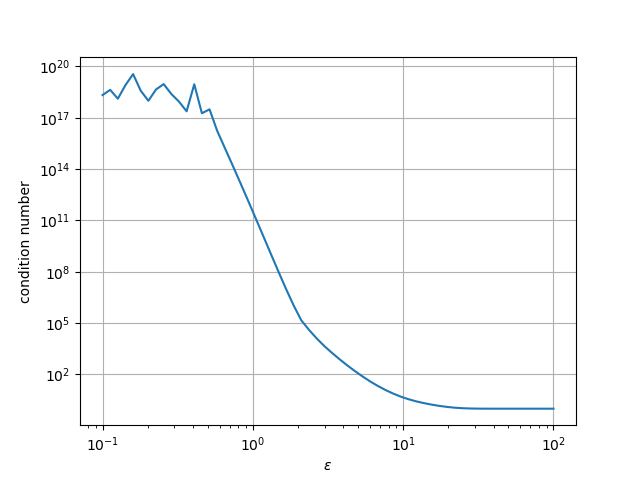
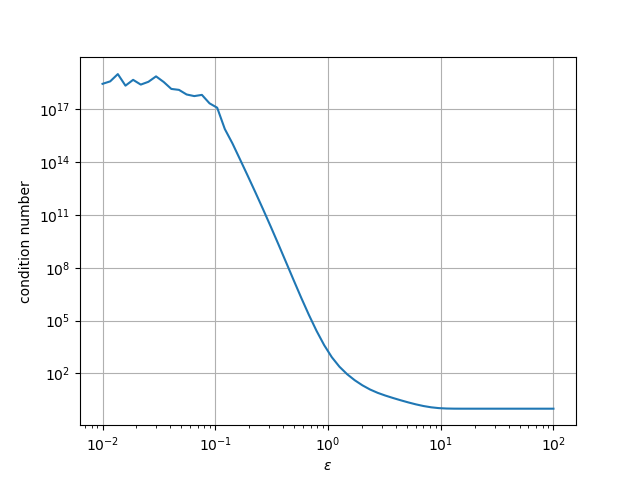
Visualization

diff --git a/README.md b/README.md
@@ -1,2 +1,97 @@
 # RBF Functions for Surrogate Optimization
  An Implementation of Radial Basis Functions for means of approximating a function, with applications within surrogate based optimization
+
+
+<p align='center'>
+<img src="https://github.com/TomRSavage/RBF-Functions-For-Surrogate-Optimization/blob/master/RBFFunction1D.gif" width="400"> <img src="https://github.com/TomRSavage/RBF-Functions-For-Surrogate-Optimization/blob/master/RBFFunction2D.gif" width="400"> 
+<p/>
+
+## Radial Basis Function Explanation
+
+Radial Basis Functions (RBFs) are used to interpolate data, approximating an original or unknown function. Their applications within surrogate modelling are clear, data is sampled within the function space of an expensive function and an RBF is created with a much 'cheaper' evaluation cost. When functions are highly non-linear it is beneficial that they be optimized using stochastic methods, often requiring lots of function evaluations. This compuationally cheaper interpolation of the original function allows for much faster and more efficient optimization. 
+
+Our end goal is to produce a function that exactly predicts the correct result at a datapoint, and interpolates areas between datapoints with good accuracy. This function will be in the form:
+<p align="center"> 
+ <a href="https://www.codecogs.com/eqnedit.php?latex=f(\textbf&space;x)=&space;\sum^p_{i=1}w_i\phi(||\textbf&space;x-x^{data}_i||)" target="_blank"><img src="https://latex.codecogs.com/gif.latex?f(\textbf&space;x)=&space;\sum^p_{i=1}w_i\phi(||\textbf&space;x-x^{data}_i||)" title="f(\textbf x)= \sum^p_{i=1}w_i\phi(||\textbf x-x^{data}_i||)" /></a> 
+</p>
+Bit complicated at first glance but all will be explained. 
+
+We start with a set of sample data that we wish to interpolate around along with each points respective function evaluation as follows:
+<p align="center"> 
+<a href="https://www.codecogs.com/eqnedit.php?latex=x_{data}=\begin{bmatrix}&space;x^1_1&&space;x^1_2&space;&&space;x_3^1&space;&...&space;&x^1_n\\&space;x^2_1&&space;x^2_2&space;&&space;x_3^2&space;&...&&space;x^2_n\\&space;x^3_1&x_2^3&space;&x^3_3&space;&&space;...&x^3_n\\&space;\vdots&&space;\vdots&space;&&space;\vdots&space;&&space;\ddots\\&space;x^p_1&x^p_2&x^p_3&space;\end{bmatrix}" target="_blank"><img src="https://latex.codecogs.com/gif.latex?x_{data}=\begin{bmatrix}&space;x^1_1&&space;x^1_2&space;&&space;x_3^1&space;&...&space;&x^1_n\\&space;x^2_1&&space;x^2_2&space;&&space;x_3^2&space;&...&&space;x^2_n\\&space;x^3_1&x_2^3&space;&x^3_3&space;&&space;...&x^3_n\\&space;\vdots&&space;\vdots&space;&&space;\vdots&space;&&space;\ddots\\&space;x^p_1&x^p_2&x^p_3&space;\end{bmatrix}" title="x_{data}=\begin{bmatrix} x^1_1& x^1_2 & x_3^1 &... &x^1_n\\ x^2_1& x^2_2 & x_3^2 &...& x^2_n\\ x^3_1&x_2^3 &x^3_3 & ...&x^3_n\\ \vdots& \vdots & \vdots & \ddots\\ x^p_1&x^p_2&x^p_3 \end{bmatrix}" /></a> &nbsp &nbsp&nbsp&nbsp&nbsp
+<a href="https://www.codecogs.com/eqnedit.php?latex=y_{data}=&space;\begin{bmatrix}&space;y^1\\&space;y^2\\&space;y^3\\&space;\vdots\\&space;y^p\\&space;\end{bmatrix}" target="_blank"><img src="https://latex.codecogs.com/gif.latex?y_{data}=&space;\begin{bmatrix}&space;y^1\\&space;y^2\\&space;y^3\\&space;\vdots\\&space;y^p\\&space;\end{bmatrix}" title="y_{data}= \begin{bmatrix} y^1\\ y^2\\ y^3\\ \vdots\\ y^p\\ \end{bmatrix}" /></a>
+</p>
+
+Where p is the number of data points and n is the number of input dimensions.
+
+With this data we then create the interpolation matrix, defined as the following:
+<p align="center">
+<a href="https://www.codecogs.com/eqnedit.php?latex=\Psi=\begin{bmatrix}&space;\phi(||x^1-x^1||)&\phi(||x^1-x^2||)&space;&&space;\phi(||x^1-x^3||)&space;&...&\phi(||x^1-x^p||)&space;\\&space;\phi(||x^2-x^1||)&\phi(||x^2-x^2||)&space;&&space;\phi(||x^2-x^3||)&space;&...&\phi(||x^2-x^p||)\\&space;\phi(||x^3-x^1||)&\phi(||x^3-x^2||)&space;&&space;\phi(||x^3-x^3||)&space;&...&\phi(||x^3-x^p||)&space;\\&space;\vdots&\vdots&space;&\vdots&space;&\ddots&\vdots\\&space;\phi(||x^p-x^1||)&\phi(||x^p-x^2||)&space;&&space;\phi(||x^p-x^3||)&space;&...&\phi(||x^p-x^p||)&space;\end{bmatrix}" target="_blank"><img src="https://latex.codecogs.com/gif.latex?\Psi=\begin{bmatrix}&space;\phi(||x^1-x^1||)&\phi(||x^1-x^2||)&space;&&space;\phi(||x^1-x^3||)&space;&...&\phi(||x^1-x^p||)&space;\\&space;\phi(||x^2-x^1||)&\phi(||x^2-x^2||)&space;&&space;\phi(||x^2-x^3||)&space;&...&\phi(||x^2-x^p||)\\&space;\phi(||x^3-x^1||)&\phi(||x^3-x^2||)&space;&&space;\phi(||x^3-x^3||)&space;&...&\phi(||x^3-x^p||)&space;\\&space;\vdots&\vdots&space;&\vdots&space;&\ddots&\vdots\\&space;\phi(||x^p-x^1||)&\phi(||x^p-x^2||)&space;&&space;\phi(||x^p-x^3||)&space;&...&\phi(||x^p-x^p||)&space;\end{bmatrix}" title="\Psi=\begin{bmatrix} \phi(||x^1-x^1||)&\phi(||x^1-x^2||) & \phi(||x^1-x^3||) &...&\phi(||x^1-x^p||) \\ \phi(||x^2-x^1||)&\phi(||x^2-x^2||) & \phi(||x^2-x^3||) &...&\phi(||x^2-x^p||)\\ \phi(||x^3-x^1||)&\phi(||x^3-x^2||) & \phi(||x^3-x^3||) &...&\phi(||x^3-x^p||) \\ \vdots&\vdots &\vdots &\ddots&\vdots\\ \phi(||x^p-x^1||)&\phi(||x^p-x^2||) & \phi(||x^p-x^3||) &...&\phi(||x^p-x^p||) \end{bmatrix}" /></a>
+</p>
+
+Where the basis function <a href="https://www.codecogs.com/eqnedit.php?latex=\phi(||x_i-x_j||)" target="_blank"><img src="https://latex.codecogs.com/gif.latex?\phi(||x_i-x_j||)" title="\phi(||x_i-x_j||)" /></a> takes the input coordinates of two sample points, computes the euclidian norm of the two points (distance between them), then takes this distance (now denoted as r) and calculates a gaussian value associated with this distance.
+
+<p align="center">
+<a href="https://www.codecogs.com/eqnedit.php?latex=\phi(r)=e^{-\epsilon&space;r^2}" target="_blank"><img src="https://latex.codecogs.com/gif.latex?\phi(r)=e^{-\epsilon&space;r^2}" title="\phi(r)=e^{-\epsilon r^2}" /></a>
+</p>
+The standard gaussian function is as follows: 
+<p align="center">
+<a href="https://www.codecogs.com/eqnedit.php?latex=\phi(r)=\frac{1}{\sqrt{2\pi&space;\sigma}}e^{\frac{-(r-\mu)^2}{2\sigma&space;^2}}" target="_blank"><img src="https://latex.codecogs.com/gif.latex?\phi(r)=\frac{1}{\sqrt{2\pi&space;\sigma}}e^{\frac{-(r-\mu)^2}{2\sigma&space;^2}}" title="\phi(r)=\frac{1}{\sqrt{2\pi \sigma}}e^{\frac{-(r-\mu)^2}{2\sigma ^2}}" /></a>
+</p>
+Indicating that the parameter <a href="https://www.codecogs.com/eqnedit.php?latex=\epsilon" target="_blank"><img src="https://latex.codecogs.com/gif.latex?\epsilon" title="\epsilon" /></a> is proportional to the inverse of the standard deviation squared, thus we can think of <a href="https://www.codecogs.com/eqnedit.php?latex=\epsilon" target="_blank"><img src="https://latex.codecogs.com/gif.latex?\epsilon" title="\epsilon" /></a> as being a sort of length scale. The higher the value, the lower the standard deviation of our gaussian function, and the smaller our length scale is. 
+Here is a representation of how changing <a href="https://www.codecogs.com/eqnedit.php?latex=\epsilon" target="_blank"><img src="https://latex.codecogs.com/gif.latex?\epsilon" title="\epsilon" /></a> effects our gaussian kernel. 
+<p align="center">
+<img src="https://github.com/TomRSavage/RBF-Functions-For-Surrogate-Optimization/blob/master/GaussianGif.gif" width="400">
+</p>
+
+It should be noted that the interpolation matrix above is symmetrical, as <a href="https://www.codecogs.com/eqnedit.php?latex=\phi(||x_i-x_j||)=\phi(||x_j-x_i||)" target="_blank"><img src="https://latex.codecogs.com/gif.latex?\phi(||x_i-x_j||)=\phi(||x_j-x_i||)" title="\phi(||x_i-x_j||)=\phi(||x_j-x_i||)" /></a>. Therefore only the upper triangular section needs to be calculated, and the tranpose can be added to form the complete matrix.
+
+We now have a matrix containing data relating to how 'correlated' each datapoint is to another datapoint within function space. This is where <a href="https://www.codecogs.com/eqnedit.php?latex=y_{data}" target="_blank"><img src="https://latex.codecogs.com/gif.latex?y_{data}" title="y_{data}" /></a> comes into play. 
+By solving the equation <a href="https://www.codecogs.com/eqnedit.php?latex=\textbf&space;w\Psi=y_{data}" target="_blank"><img src="https://latex.codecogs.com/gif.latex?\textbf&space;w\Psi=y_{data}" title="\textbf w\Psi=y_{data}" /></a> for <a href="https://www.codecogs.com/eqnedit.php?latex=\textbf&space;w" target="_blank"><img src="https://latex.codecogs.com/gif.latex?\textbf&space;w" title="\textbf w" /></a>, we are obtaining p weights that scale the interpolation matrix to fit the test data exactly. This provides some explanation to the original function 
+<p align="center">
+<a href="https://www.codecogs.com/eqnedit.php?latex=f(\textbf&space;x)=&space;\sum^p_{i=1}w_i\phi(||\textbf&space;x-x^{data}_i||)" target="_blank"><img src="https://latex.codecogs.com/gif.latex?f(\textbf&space;x)=&space;\sum^p_{i=1}w_i\phi(||\textbf&space;x-x^{data}_i||)" title="f(\textbf x)= \sum^p_{i=1}w_i\phi(||\textbf x-x^{data}_i||)" /></a>
+</p>
+Evaluating a coordinate can be interpreted as summing all of the scaled gaussian functions that have been fit around the test data, providing an interpolation. 
+These weights along with our test data are what defines our model. It is this embedding of test data within the actual model that allows RBFs to work so efficiently when approximating processes without noise such as expensive computer process simulations, or compuational fluid dynamic systems. 
+
+
+### Choice of <a href="https://www.codecogs.com/eqnedit.php?latex=\epsilon" target="_blank"><img src="https://latex.codecogs.com/gif.latex?\epsilon" title="\epsilon" /></a>
+
+As a property of radial basis functions is that they are exactly accurate at each data point, the loss  cannot be calculated without reserving some valuable data or sampling the function space again. Therefore the condition number of the matrix <a href="https://www.codecogs.com/eqnedit.php?latex=\Psi" target="_blank"><img src="https://latex.codecogs.com/gif.latex?\Psi" title="\Psi" /></a> is used as a measurement of how well the data is fit. With the condition number of a matrix relating to it's stability. 
+In this implementation <a href="https://www.codecogs.com/eqnedit.php?latex=\Psi" target="_blank"><img src="https://latex.codecogs.com/gif.latex?\Psi" title="\Psi" /></a> is calculated multiple times and the conditional number found over a logarithmic scale of <a href="https://www.codecogs.com/eqnedit.php?latex=\epsilon" target="_blank"><img src="https://latex.codecogs.com/gif.latex?\epsilon" title="\epsilon" /></a>. Typically resulting in a graph such as the following:
+
+<p align="center">
+<img src="https://github.com/TomRSavage/RBF-Functions-For-Surrogate-Optimization/blob/master/cond_num.png" width="400"> 
+</p>
+
+An <a href="https://www.codecogs.com/eqnedit.php?latex=\epsilon" target="_blank"><img src="https://latex.codecogs.com/gif.latex?\epsilon" title="\epsilon" /></a> value for the gaussian basis function can be approximately chosen as 'on the edge of ill-conditioning' or roughly where a condition number equals 10^12. Note that if you're thinking that this is a terrible way of choosing a hyperparameter then it absolutely is, it's mainly just as a tool to show what's gong on. There are more advanced methods that I will talk about later as well as in another repository (Kriging Interpolation). 
+
+### Effect of <a href="https://www.codecogs.com/eqnedit.php?latex=\epsilon" target="_blank"><img src="https://latex.codecogs.com/gif.latex?\epsilon" title="\epsilon" /></a> on interpolation 
+
+The following 1D and 2D interpolations provide an intuative look at how changing <a href="https://www.codecogs.com/eqnedit.php?latex=\epsilon" target="_blank"><img src="https://latex.codecogs.com/gif.latex?\epsilon" title="\epsilon" /></a> effects the approximate function. Keeping in mind the higher the value of <a href="https://www.codecogs.com/eqnedit.php?latex=\epsilon" target="_blank"><img src="https://latex.codecogs.com/gif.latex?\epsilon" title="\epsilon" /></a>, the smaller the standard deviation of the gaussian basis function. 
+
+<p align="center">
+<img src="https://github.com/TomRSavage/RBF-Functions-For-Surrogate-Optimization/blob/master/RBFFunction1D.gif" width="400"> <img src="https://github.com/TomRSavage/RBF-Functions-For-Surrogate-Optimization/blob/master/RBFFunction2D.gif" width="400"> 
+</p>
+
+## Example 
+
+The following is a demonstration of how the Rosenbrock function can be interpolated. Starting out with the original function and sampling 30 times:
+<p align="center">
+<img src="https://github.com/TomRSavage/RBF-Functions-For-Surrogate-Optimization/blob/master/Rosenbrock60.png" width="400"> 
+</p>
+Then a graph of condition number against <a href="https://www.codecogs.com/eqnedit.php?latex=\epsilon" target="_blank"><img src="https://latex.codecogs.com/gif.latex?\epsilon" title="\epsilon" /></a> is produced and an appropriate value of <a href="https://www.codecogs.com/eqnedit.php?latex=\epsilon" target="_blank"><img src="https://latex.codecogs.com/gif.latex?\epsilon" title="\epsilon" /></a> is chosen: 
+
+<p align="center">
+<img src="https://github.com/TomRSavage/RBF-Functions-For-Surrogate-Optimization/blob/master/cond_num.png" width="400"> 
+</p>
+This value of <a href="https://www.codecogs.com/eqnedit.php?latex=\epsilon" target="_blank"><img src="https://latex.codecogs.com/gif.latex?\epsilon" title="\epsilon" /></a> is then used to create the final interpolation matrix and corresponding weights. Resulting in the following approximation.
+
+<p align="center">
+<img src="https://github.com/TomRSavage/RBF-Functions-For-Surrogate-Optimization/blob/master/RosenbrockRBF.png" width="400"> 
+</p>
+
+
+### Sources
+
+* **Alexander I. J. Forrester, Andras Sobester and Andy J. Keane**- Engineering Design via Surrogate Modelling (John Wiley & Sons, 2008)
